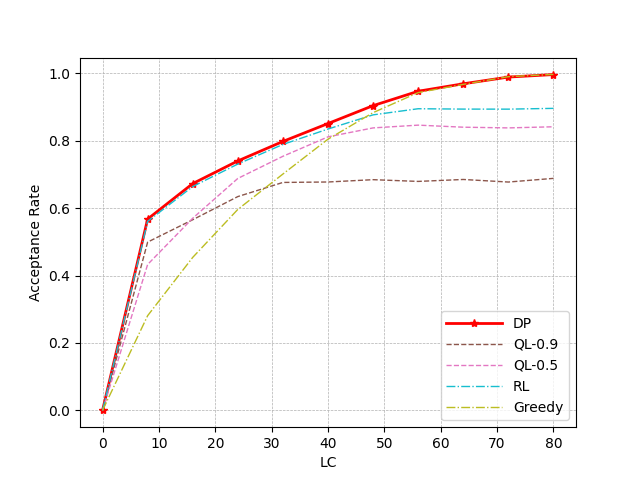
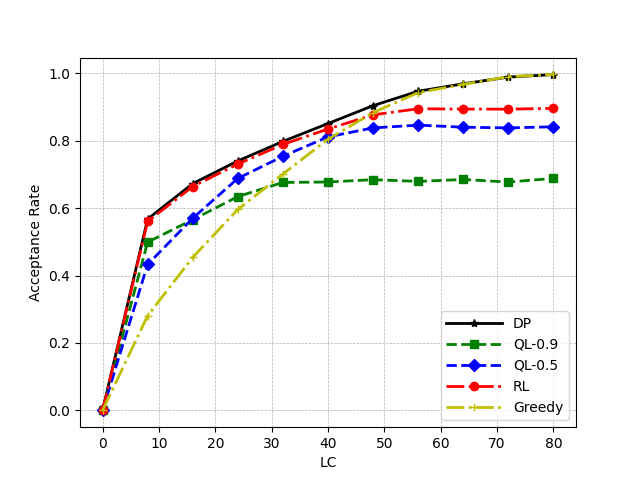
new plots

diff --git a/Single-Provider-Federation/quota-rejection/simulations/res_plotter_gr_dp_2ql_rl.py b/Single-Provider-Federation/quota-rejection/simulations/res_plotter_gr_dp_2ql_rl.py
@@ -52,15 +52,15 @@ plt.ylabel(y_label)
 #plt.plot(x, DP_05, label='DP-0.05', color='C1', linestyle='solid', linewidth=1)
 #plt.plot(x, DP_30, label='DP-0.30', color='C2', linestyle='solid', linewidth=1)
 #plt.plot(x, DP_60, label='DP-0.60', color='C3', linestyle='solid', linewidth=1)
-plt.plot(x, DP_95, label='DP', color='r', linestyle='solid', linewidth=2, marker = '*')
+plt.plot(x, DP_95, label='DP', color='k', linestyle='solid', linewidth=2, marker = '*')
 
-plt.plot(x, QL_09, label='QL-0.9', color='C5', linestyle='dashed', linewidth=1)
-plt.plot(x, QL_05, label='QL-0.5', color='C6', linestyle='dashed', linewidth=1)
-plt.plot(x, RL, label='RL', color='C9', linestyle='-.', linewidth=1)
+plt.plot(x, QL_09, label='QL-0.9', color='g', linestyle='dashed', linewidth=2, marker = 's')
+plt.plot(x, QL_05, label='QL-0.5', color='b', linestyle='dashed', linewidth=2, marker = 'D')
+plt.plot(x, RL, label='RL', color='r', linestyle='-.', linewidth=2, marker = 'o')
 
 #plt.plot(x, greedy_000, label='Greedy-0.0', color='C6', linestyle='dashdot', linewidth=1)
 #plt.plot(x, greedy_050, label='Greedy-0.5', color='C7', linestyle='dashdot', linewidth=1)
-plt.plot(x, greedy_100, label='Greedy', color='C8', linestyle='dashdot', linewidth=1)
+plt.plot(x, greedy_100, label='Greedy', color='y', linestyle='dashdot', linewidth=2, marker = '+')
 
 plt.legend(loc='best', handlelength=4)
 
